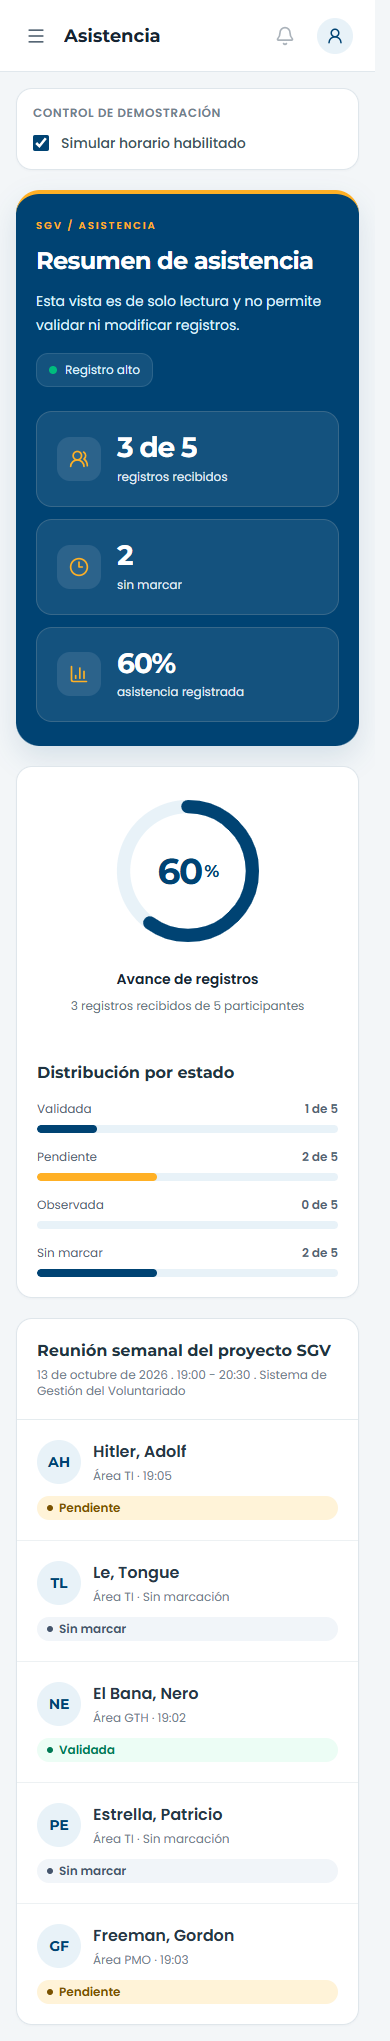
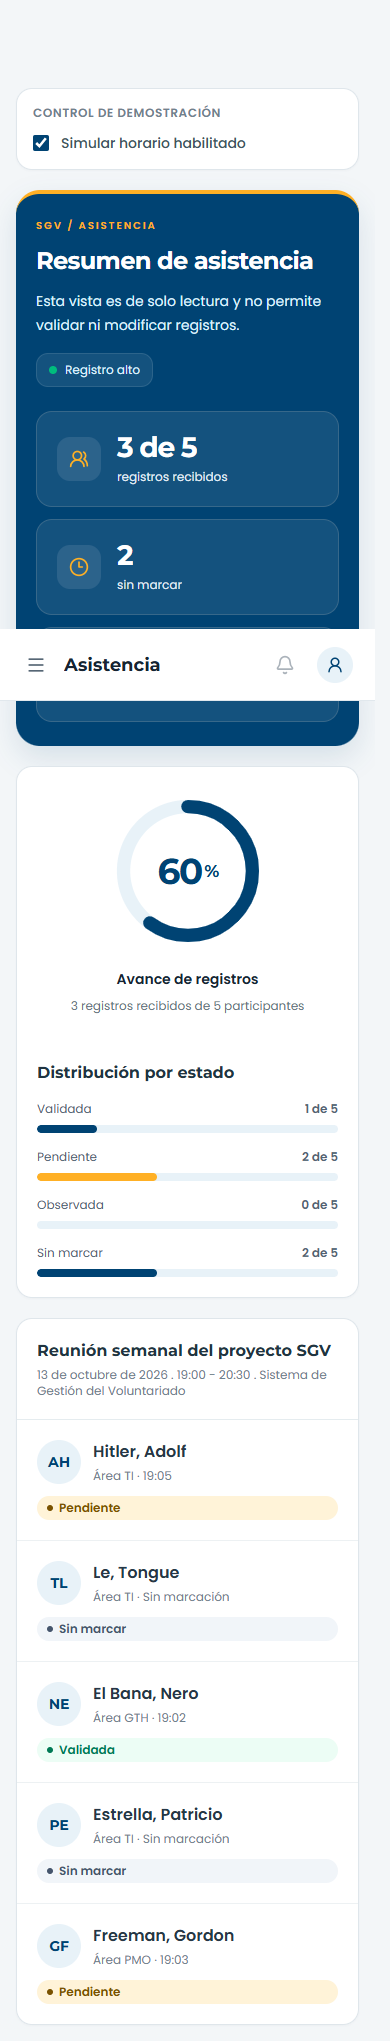
feat: abrir observaciones en un modal animado y accesible

Changed region(s): [[0.0308, 0.3087, 0.9231, 0.3704], [0.1846, 0.0, 0.4, 0.0309]]

diff --git a/src/componentes/VistaDirector.tsx b/src/componentes/VistaDirector.tsx
@@ -1,5 +1,6 @@
-import { useMemo, useState, type FormEvent } from 'react'
-import { Check, CheckCircle2, Clock3, Eye, Inbox, MessageSquareWarning } from 'lucide-react'
+import { useMemo, useRef, useState, type FormEvent } from 'react'
+import { Check, CheckCircle2, Clock3, Eye, Inbox, MessageSquareWarning, X } from 'lucide-react'
+import * as Dialogo from '@radix-ui/react-dialog'
 import { Boton } from './Boton'
 import { InsigniaEstado } from './InsigniaEstado'
 import { CabeceraSeccion } from './CabeceraSeccion'
@@ -30,6 +31,19 @@ export function VistaDirector({
     const [filtroEstado, establecerFiltroEstado] = useState<FiltroEstado>('Todos')
     const [idEnObservacion, establecerIdEnObservacion] = useState<string | null>(null)
     const [motivo, establecerMotivo] = useState('')
+    const botonOrigen = useRef<HTMLElement | null>(null)
+    const [registroSeleccionado, establecerRegistroSeleccionado] = useState<RegistroAsistencia | null>(null)
+
+    const solicitarObservacion = (id: string) => {
+        botonOrigen.current = document.activeElement instanceof HTMLElement ? document.activeElement : null
+        establecerRegistroSeleccionado(registros.find((registro) => registro.id === id) ?? null)
+        establecerMotivo('')
+        establecerIdEnObservacion(id)
+    }
+
+    const cerrarObservacion = () => {
+        establecerIdEnObservacion(null)
+    }
 
     const registrosFiltrados = useMemo (() => {
         const ordenados = [...registros].sort ((a, b) =>
@@ -49,7 +63,6 @@ export function VistaDirector({
         if (!idEnObservacion || !motivo.trim()) return
         alObservar(idEnObservacion, motivo.trim())
         establecerIdEnObservacion(null)
-        establecerMotivo('')
     }
 
     return (
@@ -106,7 +119,7 @@ export function VistaDirector({
                                         <Acciones
                                             registro={registro}
                                             alValidar={alValidar}
-                                            alSolicitarObservacion={establecerIdEnObservacion}
+                                            alSolicitarObservacion={solicitarObservacion}
                                         />
                                     </td>
                                 </tr>
@@ -135,7 +148,7 @@ export function VistaDirector({
                             <Acciones
                                 registro={registro}
                                 alValidar={alValidar}
-                                alSolicitarObservacion={establecerIdEnObservacion}
+                                alSolicitarObservacion={solicitarObservacion}
                             />
                         </article>
                     ))}
@@ -149,39 +162,59 @@ export function VistaDirector({
                 )}
             </section>
 
-            {idEnObservacion && (
-                <form
-                    onSubmit={guardarObservacion}
-                    className="rounded-2xl border border-[#f1c56d] bg-[#fff8e9] p-5"
-                >
-                    <label className="block text-sm font-semibold text-[#604000]" htmlFor="motivo">
-                        Motivo de la observación
-                    </label>
-                    <textarea
-                        id="motivo"
-                        value={motivo}
-                        onChange={(evento) => establecerMotivo(evento.target.value)}
-                        rows={3}
-                        required
-                        className="mt-2 w-full rounded-xl border border-[#ddbd79] bg-white p-3 text-sm"
-                        placeholder="Indica qué debe confirmar o corregir el voluntario"
-                    />
-                    <div className="mt-3 flex flex-wrap gap-2">
-                        <Boton type="submit" variante="observacion">
-                            <MessageSquareWarning className="size-4"/> Guardar observación
-                        </Boton>
-                        <Boton
-                            variante="secundaria"
-                            onClick={ () => {
-                                establecerIdEnObservacion(null)
-                                establecerMotivo('')
-                            }}
-                        >
-                            Cancelar
-                        </Boton>
-                    </div>
-                </form>
-            )}
+            <Dialogo.Root open={idEnObservacion !== null} onOpenChange={(abierto) => { if (!abierto) cerrarObservacion() }}>
+                <Dialogo.Portal>
+                    <Dialogo.Overlay className="modal-sgv-fondo" />
+                    <Dialogo.Content className="modal-sgv"
+                        onOpenAutoFocus={(evento) => {
+                            evento.preventDefault()
+                            document.getElementById('motivo')?.focus()
+                        }}
+                        onCloseAutoFocus={(evento) => {
+                            evento.preventDefault()
+                            if (botonOrigen.current?.isConnected) botonOrigen.current.focus()
+                            else document.querySelector<HTMLButtonElement>('button[aria-label="Estado"]')?.focus()
+                        }}>
+                        <div className="border-b border-[#e5ecef] p-5 pr-14 sm:p-6">
+                            <span className="mb-3 grid size-11 place-items-center rounded-xl bg-[#fff5df] text-[#875700]">
+                                <MessageSquareWarning className="size-5" aria-hidden="true" />
+                            </span>
+                            <Dialogo.Title className="font-titulos text-xl font-bold text-[#172432]">Observar asistencia</Dialogo.Title>
+                            <Dialogo.Description className="mt-2 text-sm leading-6 text-[#657381]">
+                                Indica qué debe confirmar o corregir el voluntario. La hora de marcación no se modificará.
+                            </Dialogo.Description>
+                            <Dialogo.Close asChild>
+                                <Boton variante="fantasma" tamaño="icono" className="absolute right-3 top-3" aria-label="Cerrar observación">
+                                    <X className="size-5" aria-hidden="true" />
+                                </Boton>
+                            </Dialogo.Close>
+                        </div>
+                        <form onSubmit={guardarObservacion} className="p-5 sm:p-6">
+                            {registroSeleccionado && (
+                                <div className="mb-5 flex items-center gap-3 rounded-xl bg-[#f3f6f8] p-3">
+                                    <AvatarVoluntario nombres={registroSeleccionado.nombres} apellidos={registroSeleccionado.apellidos} />
+                                    <div className="min-w-0">
+                                        <p className="break-words text-sm font-semibold text-[#263746]">{registroSeleccionado.apellidos}, {registroSeleccionado.nombres}</p>
+                                        <p className="mt-1 text-xs text-[#657381]">Área {registroSeleccionado.area} · Marcación {registroSeleccionado.horaMarcada ?? 'sin registrar'}</p>
+                                    </div>
+                                </div>
+                            )}
+                            <label className="block text-sm font-semibold text-[#263746]" htmlFor="motivo">Motivo de la observación</label>
+                            <textarea id="motivo" value={motivo} onChange={(evento) => establecerMotivo(evento.target.value)}
+                                rows={4} required aria-describedby="ayuda-motivo"
+                                className="mt-2 w-full resize-y rounded-xl border border-[#d6e0e7] bg-white p-3 text-sm text-[#263746] outline-none focus:border-[#004373]"
+                                placeholder="Indica qué debe confirmar o corregir el voluntario" />
+                            <p id="ayuda-motivo" className="mt-2 text-xs leading-5 text-[#657381]">El motivo quedará asociado a este registro en la demostración.</p>
+                            <div className="mt-6 flex flex-col-reverse gap-2 sm:flex-row sm:justify-end">
+                                <Dialogo.Close asChild><Boton variante="secundaria">Cancelar</Boton></Dialogo.Close>
+                                <Boton type="submit" variante="observacion" disabled={!motivo.trim()}>
+                                    <MessageSquareWarning className="size-4" aria-hidden="true" /> Guardar observación
+                                </Boton>
+                            </div>
+                        </form>
+                    </Dialogo.Content>
+                </Dialogo.Portal>
+            </Dialogo.Root>
         </section>
     )
 }

diff --git a/src/estilos.css b/src/estilos.css
@@ -119,6 +119,21 @@ main > section, main > div { animation: aparecer-sgv 240ms ease-out; }
 .indicador-circular figcaption p { margin-top: 5px; color: #657381; font-size: 12px; line-height: 1.7; }
 .indicador-circular__arco { transition: stroke-dashoffset 400ms ease; }
 .barra-horas { animation: crecer-barra 420ms ease-out both; transform-origin: bottom; }
+.modal-sgv-fondo { position: fixed; inset: 0; z-index: 60; background: rgb(6 28 44 / 58%); }
+.modal-sgv {
+  position: fixed; z-index: 61; top: 50%; left: 50%; transform: translate(-50%, -50%);
+  width: min(560px, calc(100% - 32px)); max-height: calc(100dvh - 32px); overflow-y: auto;
+  border-radius: 24px; border: 1px solid #dfe6eb; border-top: 4px solid #ffb025;
+  background: white; box-shadow: 0 24px 70px rgb(6 28 44 / 28%); outline: none;
+}
+.modal-sgv-fondo[data-state="open"] { animation: fondo-entrar 180ms ease-out; }
+.modal-sgv-fondo[data-state="closed"] { animation: fondo-salir 140ms ease-in; }
+.modal-sgv[data-state="open"] { animation: modal-entrar 220ms cubic-bezier(.16,1,.3,1); }
+.modal-sgv[data-state="closed"] { animation: modal-salir 140ms ease-in; }
+@keyframes fondo-entrar { from { opacity: 0; } to { opacity: 1; } }
+@keyframes fondo-salir { from { opacity: 1; } to { opacity: 0; } }
+@keyframes modal-entrar { from { opacity: 0; transform: translate(-50%, calc(-50% + 12px)) scale(.97); } to { opacity: 1; transform: translate(-50%, -50%) scale(1); } }
+@keyframes modal-salir { from { opacity: 1; transform: translate(-50%, -50%) scale(1); } to { opacity: 0; transform: translate(-50%, calc(-50% + 6px)) scale(.98); } }
 @keyframes crecer-barra { from { transform: scaleY(0); } to { transform: scaleY(1); } }
 @media (prefers-reduced-motion: reduce) {
   *, *::before, *::after { animation: none !important; transition: none !important; }

diff --git a/docs/ACTUALIZACION_VISUAL.md b/docs/ACTUALIZACION_VISUAL.md
@@ -15,6 +15,14 @@ La navegación es una propuesta local pendiente de la plantilla oficial. Los cam
 5. **Movimiento:** se limita a entradas breves y barras de la gráfica. No se transforman los contenedores generales o el logo. Con `prefers-reduced-motion`, las animaciones y transiciones se desactivan.
 6. **Pruebas:** compilar, revisar tipos y ejecutar las pruebas con el servidor de desarrollo activo. Las pruebas de navegador incluyen los nuevos controles y capturan las pantallas cuando las animaciones terminan.
 
+## Modal de observación
+
+`src/componentes/VistaDirector.tsx` utiliza un diálogo controlado de Radix: la selección del registro abre el modal y coloca el foco en el motivo. Escape, Cancelar y la cruz cierran sin modificar la asistencia; Guardar exige un motivo no vacío. Al cerrar, el foco vuelve al botón original o al filtro de estado si ese botón desapareció tras guardar.
+
+Las clases `modal-sgv` y `modal-sgv-fondo`, en `src/estilos.css`, animan entrada y salida mediante opacidad, escala y desplazamiento breve. La ventana usa un portal, respeta el espacio de la barra de desplazamiento y puede desplazarse internamente en pantallas bajas. Con movimiento reducido no se anima.
+
+La implementación sigue el patrón de [Dialog de shadcn/ui](https://ui.shadcn.com/docs/components/radix/dialog), usando las [primitivas Radix](https://www.radix-ui.com/primitives/docs/components/dialog) ya instaladas, sin incorporar una biblioteca de animación adicional.
+
 ## Dependencias
 
 Los indicadores son SVG/CSS propios. Sonner se incorporó únicamente al sprint 2, siguiendo el patrón de notificaciones documentado por [shadcn/ui](https://ui.shadcn.com/docs/components/radix/sonner) y la [documentación de Sonner](https://sonner.emilkowal.ski/).
